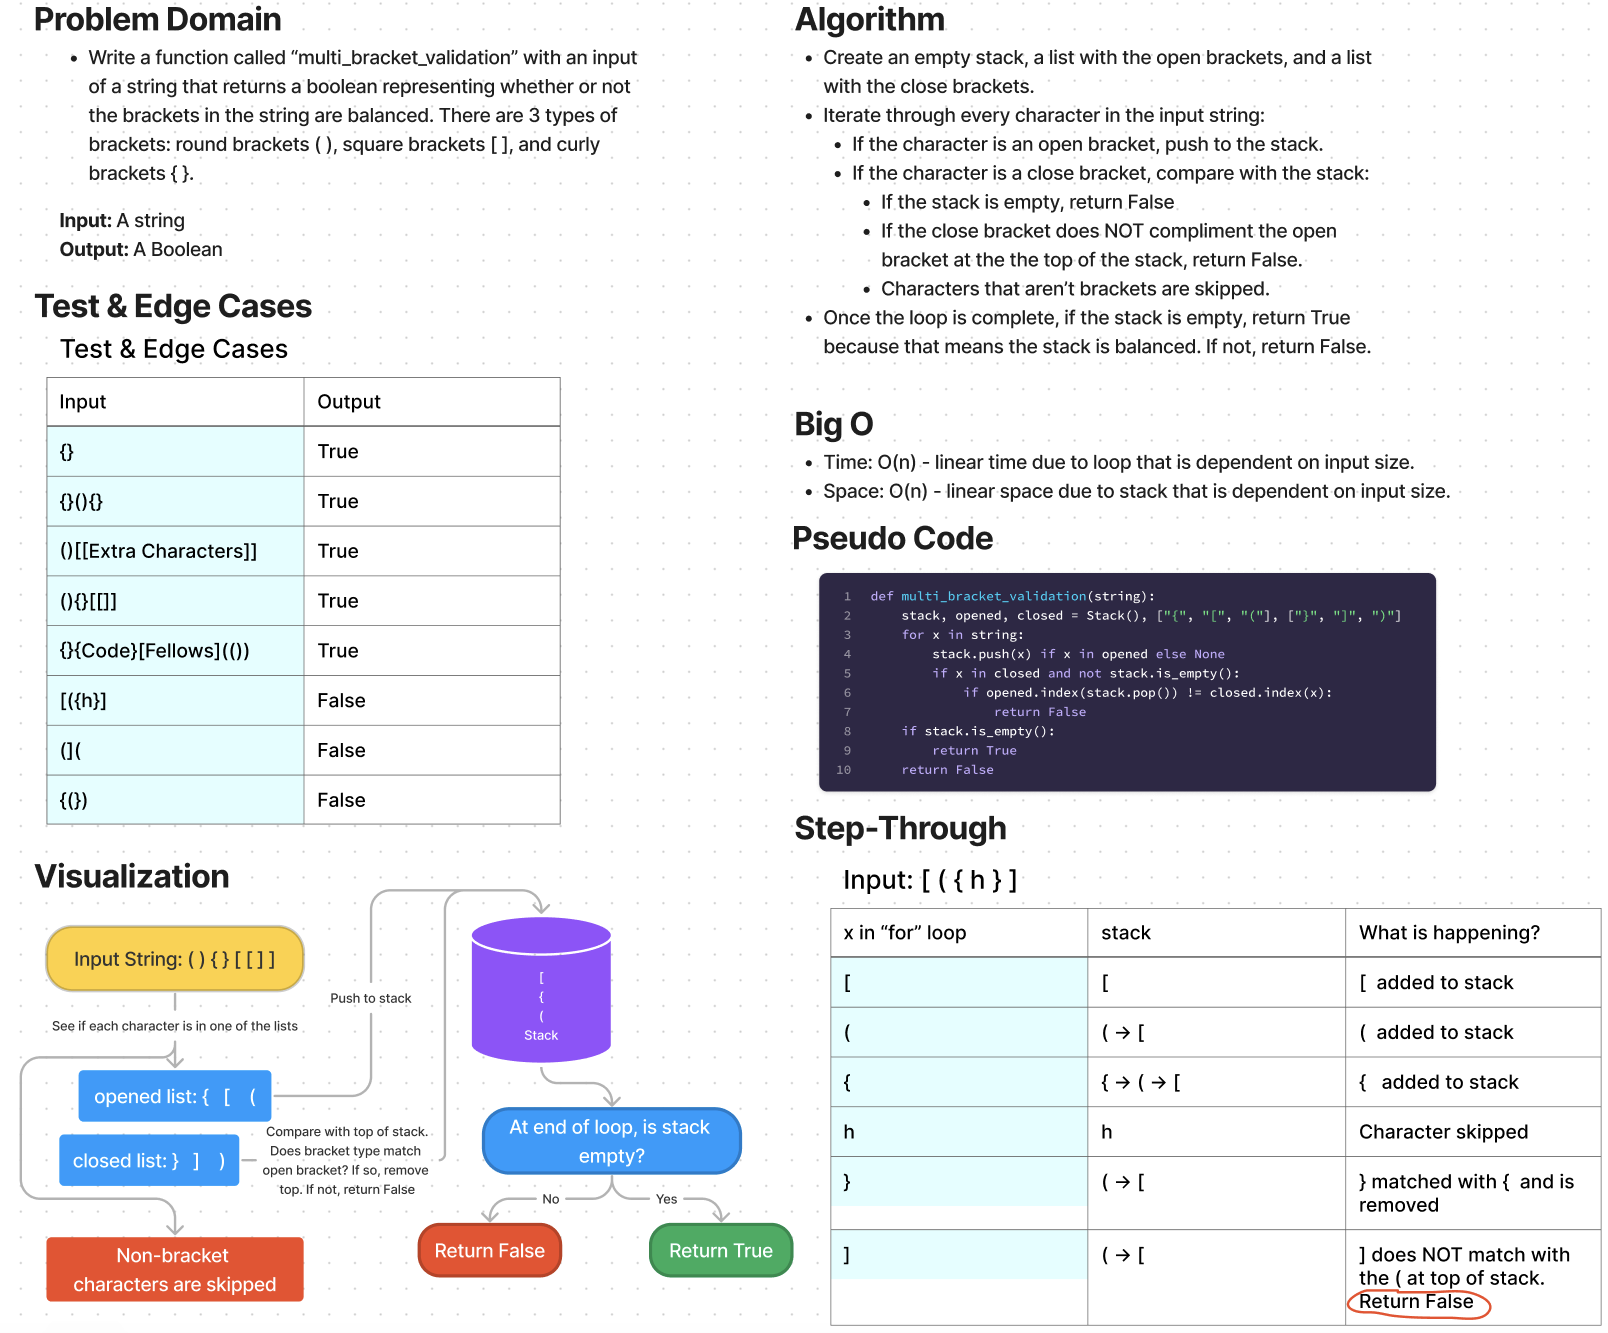
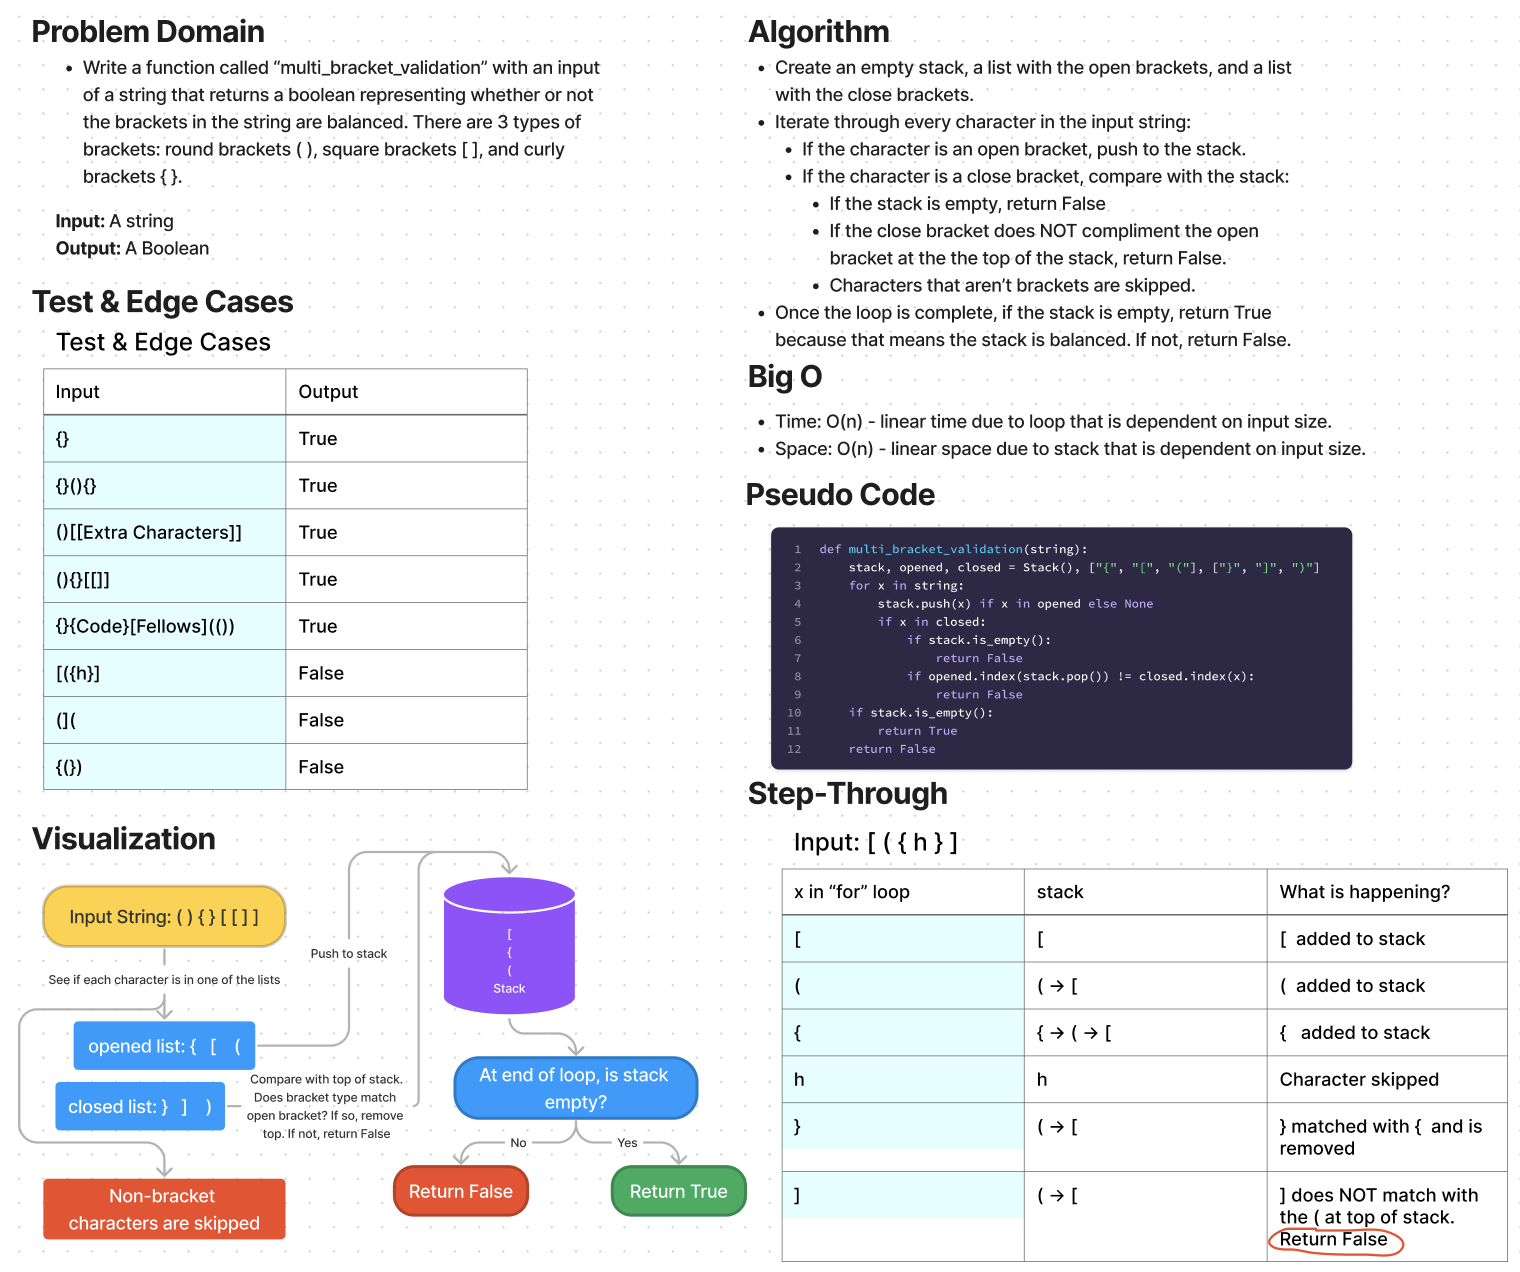
added test to CC13

diff --git a/python/code_challenges/stack_queue_brackets.py b/python/code_challenges/stack_queue_brackets.py
@@ -5,7 +5,9 @@ def multi_bracket_validation(string):
     stack, opened, closed = Stack(), ["{", "[", "("], ["}", "]", ")"]
     for x in string:
         stack.push(x) if x in opened else None
-        if x in closed and not stack.is_empty():
+        if x in closed:
+            if stack.is_empty():
+                return False
             if opened.index(stack.pop()) != closed.index(x):
                 return False
     if stack.is_empty():

diff --git a/python/tests/code_challenges/test_stack_queue_brackets.py b/python/tests/code_challenges/test_stack_queue_brackets.py
@@ -32,8 +32,8 @@ def test_fails_two_braces_flipped():
 
 # @pytest.mark.skip("TODO")
 def test_validates_two_parentheses():
-    actual = multi_bracket_validation("()")
-    expected = True
+    actual = multi_bracket_validation("())")
+    expected = False
     assert actual == expected
 
 
